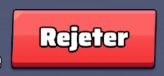
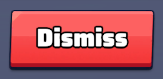
rework with english version done and manage the liked profile modal added

Changed region(s): [[0.0, 0.1053, 0.9816, 0.9211], [0.2147, 0.3158, 0.7975, 0.7105]]

diff --git a/common.py b/common.py
@@ -24,20 +24,60 @@ def OpenSecretary(x, y):
 
 def OpenWaitingList():
   try:
-    waitingList = pg.locateCenterOnScreen("./images/waiting-list-button.png", grayscale=True, confidence=0.8)
+    waitingList = pg.locateCenterOnScreen("./images/waiting-list-button.png", confidence=0.8)
     pg.click(waitingList[0], waitingList[1])
 
     time.sleep(GetRandomClickInterval())
   except pg.ImageNotFoundException: 
-    print('Waiting list button not found')
+    print('Waiting list button NOT FOUND')
 
+#-------------------------------------------------------------
+
+def IsScrollDownNeeded():
+  # useful to know if there's so many people in the queue list
+  try:
+    applicantsTitle = pg.locateOnScreen("./images/applicants.png", confidence=0.8)
+
+    if applicantsTitle is not None:
+      top_left_x = int(applicantsTitle[0])
+      top_left_y = int(applicantsTitle[1])
+      bottom_right_x= int(applicantsTitle[0] + applicantsTitle[2] + 100)
+      bottom_right_y= int(applicantsTitle[1] + applicantsTitle[3])
+    
+
+      getAllApplicantsImage = pg.screenshot(region=(top_left_x, top_left_y, bottom_right_x - top_left_x, bottom_right_y - top_left_y))
+
+      getAllApplicantsFullSentence = pytesseract.image_to_string(getAllApplicantsImage)
+
+      getAllApplicantsNumbers = getAllApplicantsFullSentence.strip()[12:]
+
+      time.sleep(GetRandomClickInterval())
+
+      if int(getAllApplicantsNumbers[0]) > 6 or getAllApplicantsNumbers[1] != "/":
+        return True
+      else:
+        return False
+      
+  except pg.ImageNotFoundException:
+    return False
+
+#-------------------------------------------------------------
+
+def ScrollDown(coords: list[int] | None):
+  if coords is not None:
+    TOP_LEFT_X, TOP_LEFT_Y = coords
+
+    # Scroll down to get the first player in the list (when there's to many people)
+    pg.mouseDown((TOP_LEFT_X + 100), (TOP_LEFT_Y + 100), button='left', duration=0.5) 
+    pg.moveTo(TOP_LEFT_X, 15000, duration=1)
+    pg.mouseUp(button='left', duration=0.5)
+    
 #-------------------------------------------------------------
 
 def GetCoordinatesOfTheFirstPlayerInWaitingList():
   try:
     coords = pg.locateCenterOnScreen(
       "./images/officer-request-title.png",  
-      grayscale=True, 
       confidence=0.8)
     
     if coords is not None:
@@ -53,7 +93,7 @@ def GetCoordinatesOfTheFirstPlayerInWaitingList():
       return None
 
   except pg.ImageNotFoundException:
-    print('Officer request image (main title) not found')
+    print('Officer request image (main title) NOT FOUND')
 
 #-------------------------------------------------------------
 
@@ -64,14 +104,14 @@ def GetFirstPlayerNameInTheList():
     if coords is not None:
       TOP_LEFT_X, TOP_LEFT_Y, BOTTOM_RIGHT_X , BOTTOM_RIGHT_Y = coords
 
-      # Scroll down to get the first player in the list (when there's to many people)
-      pg.mouseDown((coords[0] + 100), (coords[1] + 100), button='left', duration=0.5) 
-      pg.moveTo(coords[0], 15000, duration=1)
-      pg.mouseUp(button='left', duration=0.5)
+      isScrollNeeded = IsScrollDownNeeded()
 
-      time.sleep(GetRandomClickInterval())
+      if isScrollNeeded == True:
+        ScrollDown(coords)
+        ScrollDown(coords)
+        ScrollDown(coords)
 
-      playerNameImage = pg.screenshot(region=(TOP_LEFT_X, TOP_LEFT_Y, (BOTTOM_RIGHT_X - 127) - TOP_LEFT_X, (BOTTOM_RIGHT_Y - 27) - TOP_LEFT_Y))
+      playerNameImage = pg.screenshot(region=(TOP_LEFT_X, TOP_LEFT_Y, (BOTTOM_RIGHT_X - 130) - TOP_LEFT_X, (BOTTOM_RIGHT_Y - 27) - TOP_LEFT_Y))
 
       time.sleep(0.5)
 
@@ -114,7 +154,7 @@ def isPlayerBanned(playerNameWithAlliance: str):
 
     playerNameWithoutSpaces = playerNameWithAlliance.strip()
 
-    bracketIndex = playerNameWithoutSpaces.find("[") # Example: [1Pr] (the first braket)
+    bracketIndex = playerNameWithoutSpaces.find("]") # Example: [1Pr] (the second braket because sometimes tesseract find "(" instead of "[").
 
     isBanned = False
 
@@ -128,9 +168,8 @@ def isPlayerBanned(playerNameWithAlliance: str):
     else:
       # PLAYER HAVE AN ALLIANCE
 
-      playerAlliance = playerNameWithoutSpaces[bracketIndex+1 : bracketIndex+4]
-      playerName = playerNameWithoutSpaces[bracketIndex+6 : ]
-
+      playerAlliance = playerNameWithoutSpaces[bracketIndex-3 : bracketIndex]
+      playerName = playerNameWithoutSpaces[bracketIndex+1 : ]
 
       for alliance in jsonConfig['blacklist_alliances']:
         if alliance.lower() in playerAlliance.lower():
@@ -154,13 +193,12 @@ def AcceptPlayerInWaitingList():
       accepteEntryButton = pg.locateCenterOnScreen(
         "./images/accept-entry-button.png", 
         region=(TOP_LEFT_X, TOP_LEFT_Y, BOTTOM_RIGHT_X - TOP_LEFT_X, BOTTOM_RIGHT_Y - TOP_LEFT_Y), 
-        grayscale=True, 
-        confidence=0.8)
+        confidence=0.7)
       
       pg.click(accepteEntryButton[0], accepteEntryButton[1])
 
   except pg.ImageNotFoundException:
-    print('Accept entry image not found')
+    print('Accept entry image NOT FOUND')
 
 #-------------------------------------------------------------
 
@@ -174,8 +212,7 @@ def DenyPlayerInWaitingList():
       denyEntryButton = pg.locateCenterOnScreen(
         "./images/deny-entry-button.png", 
         region=(TOP_LEFT_X, TOP_LEFT_Y, BOTTOM_RIGHT_X - TOP_LEFT_X, BOTTOM_RIGHT_Y - TOP_LEFT_Y), 
-        grayscale=True, 
-        confidence=0.8)
+        confidence=0.7)
 
       pg.click(denyEntryButton[0], denyEntryButton[1])
 
@@ -184,7 +221,7 @@ def DenyPlayerInWaitingList():
       ConfirmDenyPlayerInWaitingList()
 
   except pg.ImageNotFoundException:
-    print('Deny entry image not found')
+    print('Deny entry image NOT FOUND')
 
 #-------------------------------------------------------------
 
@@ -192,15 +229,14 @@ def ConfirmDenyPlayerInWaitingList():
   try:
     confirmDenyPlayerInWaitingListButton = pg.locateCenterOnScreen(
       "./images/confirm-deny-entry-button.png",
-      grayscale=True, 
-      confidence=0.8)
+      confidence=0.7)
     
     pg.click(confirmDenyPlayerInWaitingListButton[0], confirmDenyPlayerInWaitingListButton[1])
 
     time.sleep(GetRandomClickInterval())
     
   except pg.ImageNotFoundException:
-    print('Confirm Deny player from buff image not found')
+    print('Confirm Deny player from buff image NOT FOUND')
 
 #-------------------------------------------------------------
 
@@ -211,18 +247,16 @@ def CheckTimeInTheBuff():
 
       timeInTheBuffImage = pg.screenshot(region=(TIME_IN_THE_BUFF_TOP_LEFT_X, TIME_IN_THE_BUFF_TOP_LEFT_Y, TIME_IN_THE_BUFF_BOTTOM_RIGHT_X - TIME_IN_THE_BUFF_TOP_LEFT_X, TIME_IN_THE_BUFF_BOTTOM_RIGHT_Y - TIME_IN_THE_BUFF_TOP_LEFT_Y))
 
-      time.sleep(0.5)
-
       timeInTheBuffFullSentence = pytesseract.image_to_string(timeInTheBuffImage)
 
-      timeInTheBuffLastElement = timeInTheBuffFullSentence.split(' ')[3].replace(" ", "")
+      timeInTheBuffSplitHour = timeInTheBuffFullSentence.strip()[14:]
 
-      splitLastElement = list(timeInTheBuffLastElement)
+      hourAndMinute = list(timeInTheBuffSplitHour)
 
-      hours = int(splitLastElement[6] + splitLastElement[7])
-      minutes = int(splitLastElement[9] + splitLastElement[10])
+      hours = int(hourAndMinute[0] + hourAndMinute[1])
+      minutes = int(hourAndMinute[3] + hourAndMinute[4])
 
-      totalMinutes = hours * 60 + minutes
+      totalMinutes = (hours * 60) + minutes
       limitInMinutes = int(jsonConfig['max_time_player_has_buff_in_minute'])
 
       if totalMinutes >= limitInMinutes:
@@ -237,8 +271,7 @@ def EjectPlayerFromBuff():
   try:
     ejectPlayerFromBuffButton = pg.locateCenterOnScreen(
       "./images/eject-player-from-buff.png",
-      grayscale=True, 
-      confidence=0.8)
+      confidence=0.7)
     
     pg.click(ejectPlayerFromBuffButton[0], ejectPlayerFromBuffButton[1])
 
@@ -247,7 +280,7 @@ def EjectPlayerFromBuff():
     ConfirmEjectPlayerFromBuff()
 
   except pg.ImageNotFoundException:
-    print('Eject player from buff image not found')
+    print('Eject player from buff image NOT FOUND')
 
 #-------------------------------------------------------------
 
@@ -255,15 +288,14 @@ def ConfirmEjectPlayerFromBuff():
   try:
     confirmEjectPlayerFromBuffButton = pg.locateCenterOnScreen(
       "./images/confirm-eject-player-button.png",
-      grayscale=True, 
       confidence=0.7)
-    
+
     pg.click(confirmEjectPlayerFromBuffButton[0], confirmEjectPlayerFromBuffButton[1])
 
     time.sleep(GetRandomClickInterval())
 
   except pg.ImageNotFoundException:
-    print('Confirm Eject player from buff image not found')
+    print('Confirm Eject player from buff image NOT FOUND')
 
 #-------------------------------------------------------------
 
@@ -279,12 +311,12 @@ def WriteLogInBannedPlayersFile(playerName: str):
 
 def CloseModal():
   try:
-    closeModal = pg.locateCenterOnScreen("./images/close-modal-button.png", grayscale=True, confidence=0.8)
+    closeModal = pg.locateCenterOnScreen("./images/close-modal-button.png", confidence=0.8)
     pg.click(closeModal[0], closeModal[1])
 
     time.sleep(GetRandomClickInterval())
   except pg.ImageNotFoundException: 
-    print('Close modal button not found')
+    print('Close modal button NOT FOUND')
 
 #-------------------------------------------------------------
 

diff --git a/constants.py b/constants.py
@@ -1,27 +1,23 @@
 # List buffs coords
 
-PROFILE_PICTURE_X = 724
-PROFILE_PICTURE_Y = 70
+STRATEGY_BUFF_CENTER_X = 601
+STRATEGY_BUFF_CENTER_Y = 546
+
+SECURITY_BUFF_CENTER_X = 769
+SECURITY_BUFF_CENTER_Y = 546
+
+DEVELOPMENT_BUFF_CENTER_X = 437
+DEVELOPMENT_BUFF_CENTER_Y = 767
+
+SCIENCE_BUFF_CENTER_X = 603
+SCIENCE_BUFF_CENTER_Y = 767
+
+INTERIOR_BUFF_CENTER_X = 771
+INTERIOR_BUFF_CENTER_Y = 767
 
 #---------------------------------------------------
-STRATEGY_BUFF_CENTER_X = 939
-STRATEGY_BUFF_CENTER_Y = 561
+TIME_IN_THE_BUFF_TOP_LEFT_X = 469
+TIME_IN_THE_BUFF_TOP_LEFT_Y = 320
 
-SECURITY_BUFF_CENTER_X = 1102
-SECURITY_BUFF_CENTER_Y = 561
-
-DEVELOPMENT_BUFF_CENTER_X = 771
-DEVELOPMENT_BUFF_CENTER_Y = 790
-
-SCIENCE_BUFF_CENTER_X = 940
-SCIENCE_BUFF_CENTER_Y = 790
-
-INTERIOR_BUFF_CENTER_X = 1102
-INTERIOR_BUFF_CENTER_Y = 790
-
-#---------------------------------------------------
-TIME_IN_THE_BUFF_TOP_LEFT_X = 702
-TIME_IN_THE_BUFF_TOP_LEFT_Y = 316
-
-TIME_IN_THE_BUFF_BOTTOM_RIGHT_X = 1171
-TIME_IN_THE_BUFF_BOTTOM_RIGHT_Y = 350
+TIME_IN_THE_BUFF_BOTTOM_RIGHT_X = 798
+TIME_IN_THE_BUFF_BOTTOM_RIGHT_Y = 348

diff --git a/startBot.py b/startBot.py
@@ -3,6 +3,7 @@ from common import *
 from constants import *
 from buffs.checkBuffs import CheckBuffs
 from antiBotModal import CheckAndCloseAntiBotModal
+from likedProfileModal import CheckLikedProfileModal
 from multiprocessing import Process
 
 #-------------------------------------------------------------
@@ -15,9 +16,11 @@ def StartBot():
 
 #-------------------------------------------------------------
 
-# Start 2 loops. 
+# Start 3 loops. 
+# 1 to close the modal when someone like your profile (CheckLikedProfileModal) 
 # 1 to close anti bot modal (CheckAndCloseAntiBotModal) 
 # 1 for main bot (StartBot)
 if __name__ == '__main__':
+  Process(target=CheckLikedProfileModal).start()
   Process(target=CheckAndCloseAntiBotModal).start()
   Process(target=StartBot).start()

diff --git a/antiBotModal.py b/antiBotModal.py
@@ -4,10 +4,10 @@ import pyautogui as pg
 
 def GetAntiBotModalLeaveGameButton():
   try:
-    return pg.locateCenterOnScreen("./images/leave-game-button.png", grayscale=True, confidence=0.8)
+    return pg.locateCenterOnScreen("./images/exit-game-button.png", grayscale=True, confidence=0.9)
    
   except pg.ImageNotFoundException: 
-    None
+    return None
 
 #-------------------------------------------------------------
 
@@ -17,7 +17,7 @@ def CloseAntiBotModal():
     pg.click(antiBotModalCloseButton[0], antiBotModalCloseButton[1])
 
   except pg.ImageNotFoundException: 
-    print('Anti bot modal close button not found')
+    print('Anti bot modal close button NOT FOUND')
 
 #-------------------------------------------------------------
 

diff --git a/buffs/checkBuffs.py b/buffs/checkBuffs.py
@@ -5,11 +5,14 @@ from buffs.security.checkSecurityBuff import CheckSecurityBuff
 from buffs.development.checkDevelopmentBuff import CheckDevelopmentBuff
 from buffs.science.checkScienceBuff import CheckScienceBuff
 from buffs.interior.checkInteriorBuff import CheckInteriorBuff
+from constants import STRATEGY_BUFF_CENTER_X
 
 def CheckBuffs():
   # Scroll down to see all secretaries
-  pg.click(733, 128) # Top left on the window
-  pg.scroll(-400)
+  pg.mouseDown(STRATEGY_BUFF_CENTER_X, 130, button="left", duration=0.5) 
+  pg.moveTo(STRATEGY_BUFF_CENTER_X, -600, duration=1)
+  pg.mouseUp(button="left", duration=0.5)
+
   time.sleep(2)
 
   while True:

diff --git a/likedProfileModal.py b/likedProfileModal.py
@@ -1,0 +1,20 @@
+import pyautogui as pg
+
+#-------------------------------------------------------------
+
+def GetLikedProfileButton():
+  try:
+    return pg.locateCenterOnScreen("./images/dismiss-liked-profile.png", grayscale=True, confidence=0.9)
+   
+  except pg.ImageNotFoundException: 
+    return None
+
+#-------------------------------------------------------------
+
+def CheckLikedProfileModal():
+  while True:
+    likedProfileButton = GetLikedProfileButton()
+
+    if likedProfileButton is not None:
+      print('Close liked profile modal !!!!!!!!!!!!!')
+      pg.click(likedProfileButton[0], likedProfileButton[1])

diff --git a/README.md b/README.md
@@ -3,8 +3,8 @@
 ## Requirements
 
 1. An account with a player level 16 at least (to get capitol buff). Do it with a 2nd account (possible ban).
-2. Set display resolution of windows screen **1920x1080** and your emulator (BlueStacks for example) to: **1280x720** vertically
-3. Set the language game to **French** (screenshots are in French)
+2. Set display resolution of windows screen **1920x1080** and your emulator (BlueStacks for example) to: **900x1600** vertically
+3. Set the language game to **English** (mandatory)
 4. Works perfectly with Windows11 **BUT** if you use MacOS or Linux, the installation will be different, **watch out**
 
 ## Installations
